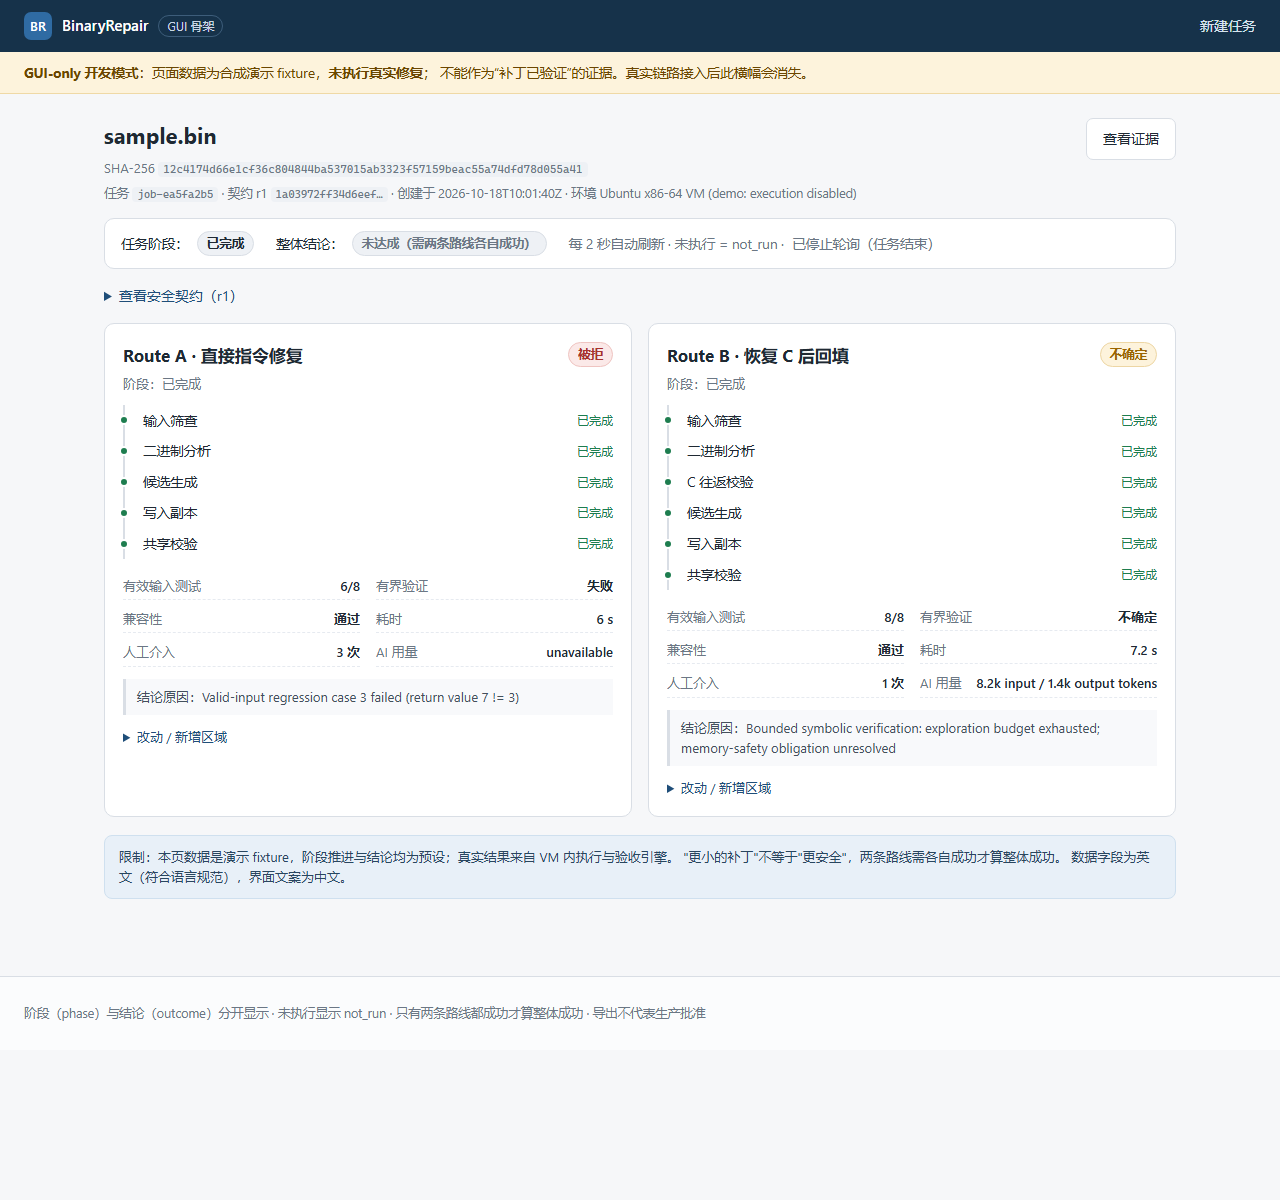
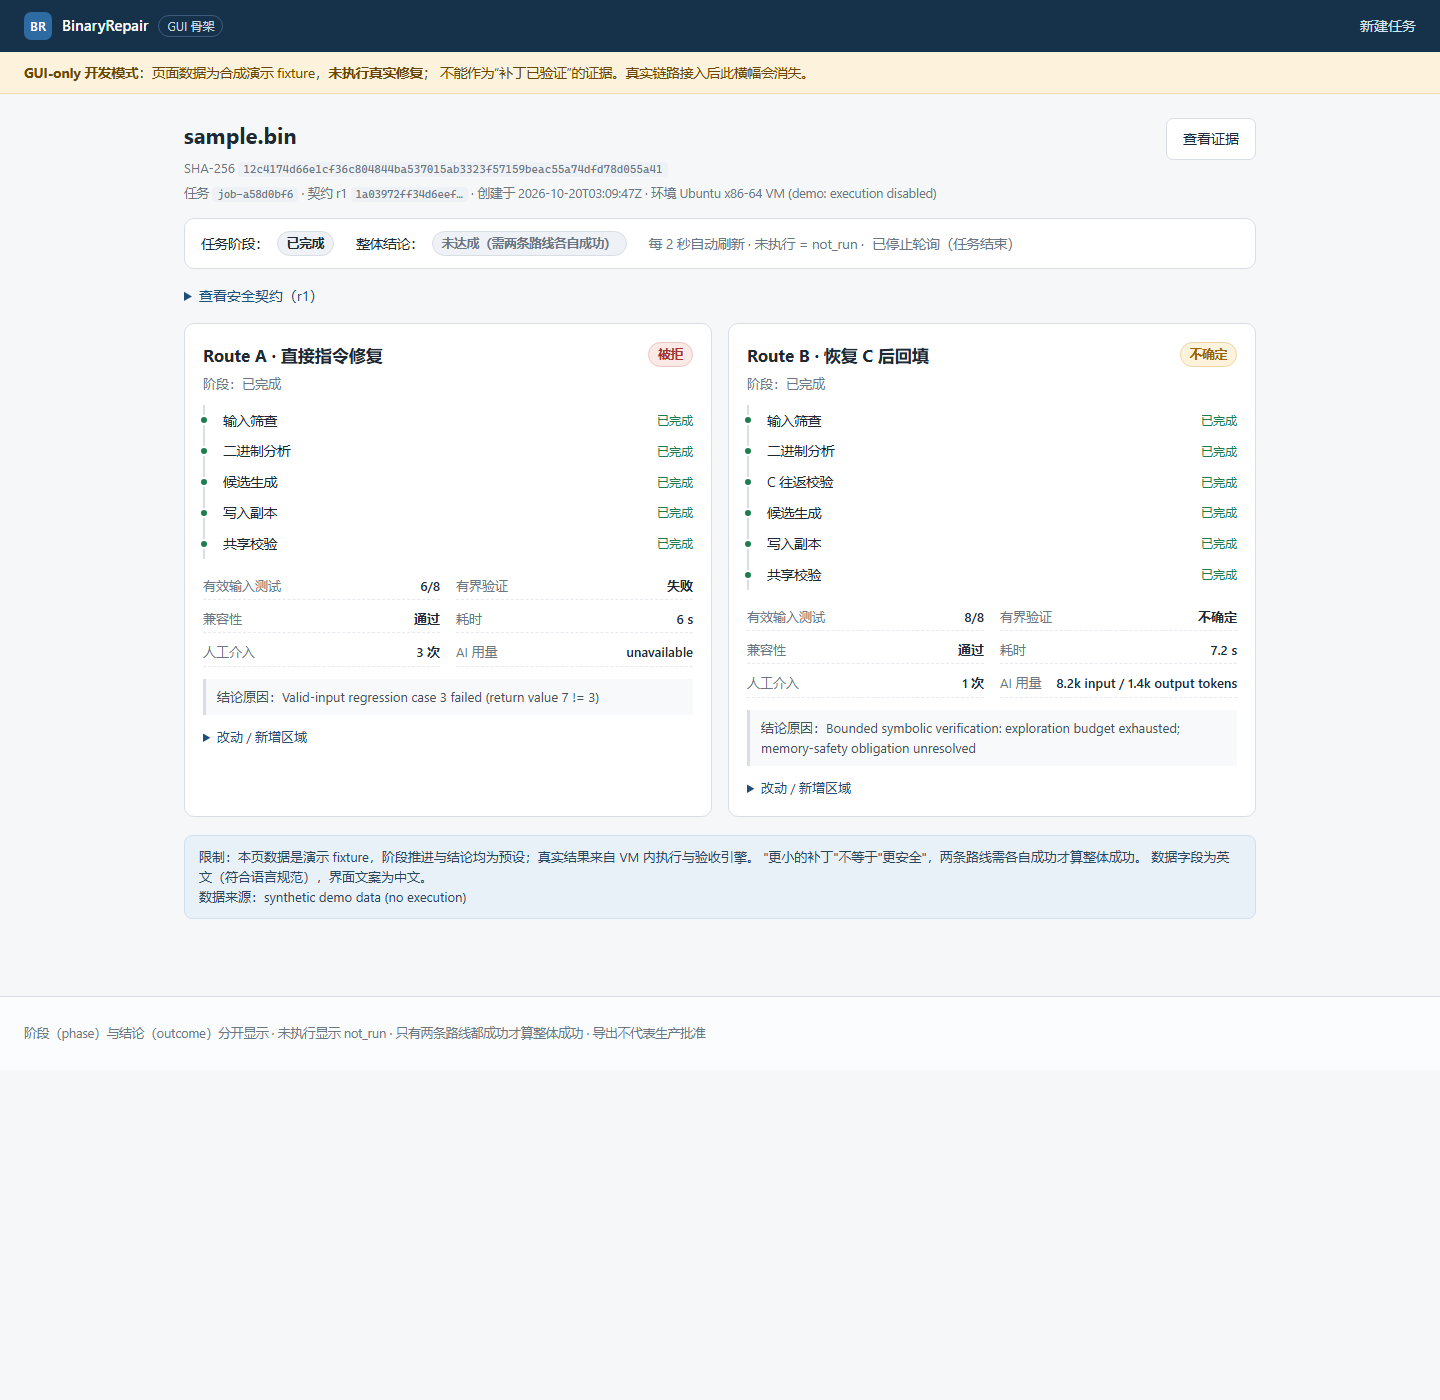
docs(gui): add proposal section, demo script and refreshed screenshots

diff --git a/docs/proposal/gui-section.md b/docs/proposal/gui-section.md
@@ -1,0 +1,120 @@
+# Proposal section — Member 2: Graphical interface
+
+Project 11: AI-driven automated binary vulnerability repair and correctness verification.
+Team: five first-year students, 25 person-hours per week. Proposal due approximately
+2026-10-22.
+
+This section describes the graphical-interface slice: what the demo shows, what is
+implemented, what is deliberately not claimed, and how to present it in five minutes.
+
+## 1. Scope of the GUI slice
+
+The operator works in a local browser in three screens:
+
+1. **Setup / Review** — upload a Linux x86-64 ELF, record its SHA-256, enter the defect
+   description, reproducer and valid-input tests, review and edit the security contract.
+2. **Progress / Comparison** — watch both repair routes (direct instruction repair and
+   recovered-C reintegration) side by side, with independent phase indicators.
+3. **Evidence / Export** — inspect obligations V0–V5, scope and assumptions, artifact
+   hashes, and export a JSON evidence bundle.
+
+The GUI never executes an uploaded or repaired binary on the host. Execution belongs to
+the disposable Ubuntu VM owned by the other members.
+
+## 2. What the demo shows
+
+| Screen | PRD requirement | Demonstration value |
+|---|---|---|
+| Setup / Review | F1 | The operator defines identity (hash), defect, tests, and a reviewed contract before anything runs |
+| Progress / Comparison | F5 | Both routes are visible with truthful phases and six outcome labels; a failed route cannot silently become "success" |
+| Evidence / Export | F4, F5 | Obligations, scope, assumptions and diagnostic-candidate labelling are shown next to the result; export states it is not production approval |
+
+State model: `phase` and `outcome` are two independent axes. Phases are
+draft/screening/analyzing/roundtrip/generating/applying/validating/finished; outcomes are
+success_within_scope/unsupported/rejected/inconclusive/error/cancelled. `not_run` is never
+rendered as passed. There are no fabricated progress percentages; the page polls every two
+seconds.
+
+## 3. Implementation status
+
+| Item | Status |
+|---|---|
+| Three screens, Chinese UI labels | Done |
+| SHA-256 identity, ASCII filename sanitization, 20 MiB upload limit | Done |
+| Phase/outcome badges, stage indicators, changed-region table, AI-usage field | Done |
+| Evidence page with V0–V5 obligations, scope, replay notes | Done |
+| JSON evidence export | Done |
+| Data-source adapter with `mock`, `http`, `local` modes | Done |
+| Local mode wired to the Member 1 SQLite job store | Done; job identity and original bytes are real, repair execution is not implemented |
+| Controller HTTP contract (`/api/jobs`, `/api/jobs/{id}`, start, cancel, obligations, artifacts) | Adapter and stub implemented; waiting for the real controller endpoint |
+| Contract revision and `409 stale approval` handling | Not yet |
+| Session token, CSRF/Origin checks | Not yet (host validation is in place) |
+| Playwright-style browser acceptance | Done, using Edge over the DevTools protocol (no extra dependency) |
+
+## 4. Data-source modes and honesty
+
+The GUI reads through one adapter (`app/backend.py`), so the pages and polling logic do not
+change when the data source changes:
+
+- `mock` (default) — synthetic fixture data. A banner states that no real repair was
+  executed. Used for the demo and covered by contract tests.
+- `http` — calls the controller API described in Technical Design section 7. A local stub
+  (`tools/stub_backend.py`) allows integration before the real controller exists.
+- `local` — calls the Member 1 controller directly: the job id, original bytes and SHA-256
+  are persisted in SQLite. Repair execution is not implemented, so the start action is
+  hidden and obligations remain `not_run`. This is the honest "real data, no fake result"
+  state.
+
+The language policy is enforced in tests: the UI is Chinese, but every uploaded, API and
+exported field is English ASCII. Non-ASCII form content returns `422`.
+
+## 5. Acceptance evidence
+
+Command: `.\.venv\Scripts\python.exe -m pytest -q tests`
+
+- 28 passed, 3 skipped (the skips belong to another member's integration suite).
+- Unit/contract: screens, host validation, upload limits, export, HTTP adapter mapping,
+  404/network/non-English error handling, stub JSON shape, local-mode persistence and
+  honest obligations.
+- Language policy: API and export payloads contain no CJK characters while UI pages stay
+  Chinese.
+- Browser end-to-end (Edge + DevTools protocol, no download): full journey
+  setup → start → comparison → evidence → export, refresh during a run, cancellation with
+  retained evidence, and local-mode honesty.
+
+## 6. Limitations and risks (stated explicitly)
+
+- The demo data is synthetic; it is not evidence that a patch is verified.
+- Local mode has a real job store but no repair execution; start/cancel return `409`.
+- Route A/B results are not yet connected to the real verifier; the GUI is ready to consume
+  them through the contract.
+- Approval binding and `409 stale approval` are designed but not implemented.
+- The host sees untrusted bytes only; no hardening beyond host validation and download
+  handling is implemented yet.
+
+## 7. Five-minute demo script
+
+| Time | Action | What to say |
+|---|---|---|
+| 0:00–0:30 | Open `http://127.0.0.1:8123/jobs/new` | "The analyst starts from a local browser; the vulnerable binary never leaves the host for analysis." |
+| 0:30–1:30 | Upload the sample, fill defect/tests, review the contract | "Identity is a SHA-256; the contract fixes the valid domain, forbidden behaviour and the required invalid-input outcome." |
+| 1:30–2:30 | Submit, start, watch both routes | "Both routes run from the same hash and contract. Phase and outcome are separate axes; unfinished stages stay visible." |
+| 2:30–3:30 | Show Route A rejected, Route B inconclusive | "A failed regression must not look like success. The labels are text plus colour, not colour alone." |
+| 3:30–4:15 | Open Evidence | "V0–V5, scope and assumptions sit next to the result; failed or inconclusive artifacts are labelled diagnostic candidates." |
+| 4:15–4:45 | Export JSON | "The export records hashes and outcomes and states it is not production approval." |
+| 4:45–5:00 | Switch to local mode (optional) | "With the real job store the task identity is real, but execution is not implemented, so the start action is hidden instead of faking a run." |
+
+## 8. Next milestones
+
+1. Align the controller HTTP API with the adapter contract and switch to `http` mode.
+2. Add contract revision and `409 stale approval`, plus session token and CSRF.
+3. Connect Route A/B phases and verifier obligations to the real pipeline.
+4. Add a Playwright-compatible e2e run to CI when the environment allows browser installs.
+
+## 9. Screenshots
+
+- `docs/screenshots/01-setup.png` — setup/review screen
+- `docs/screenshots/02-comparison.png` — comparison screen after a run
+- `docs/screenshots/03-evidence.png` — evidence/export screen
+- `docs/screenshots/04-local-mode.png` — local controller mode: real job, execution not
+  available (honest state)
